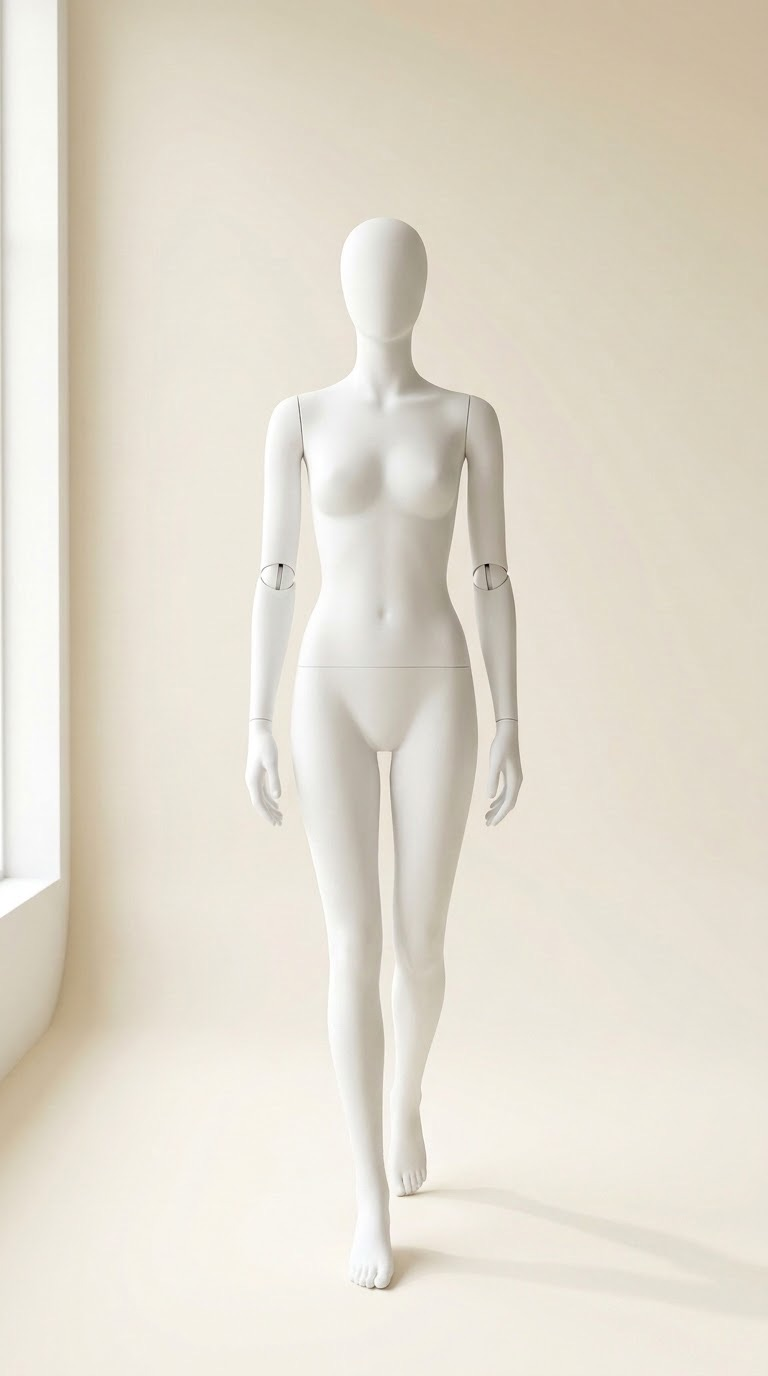
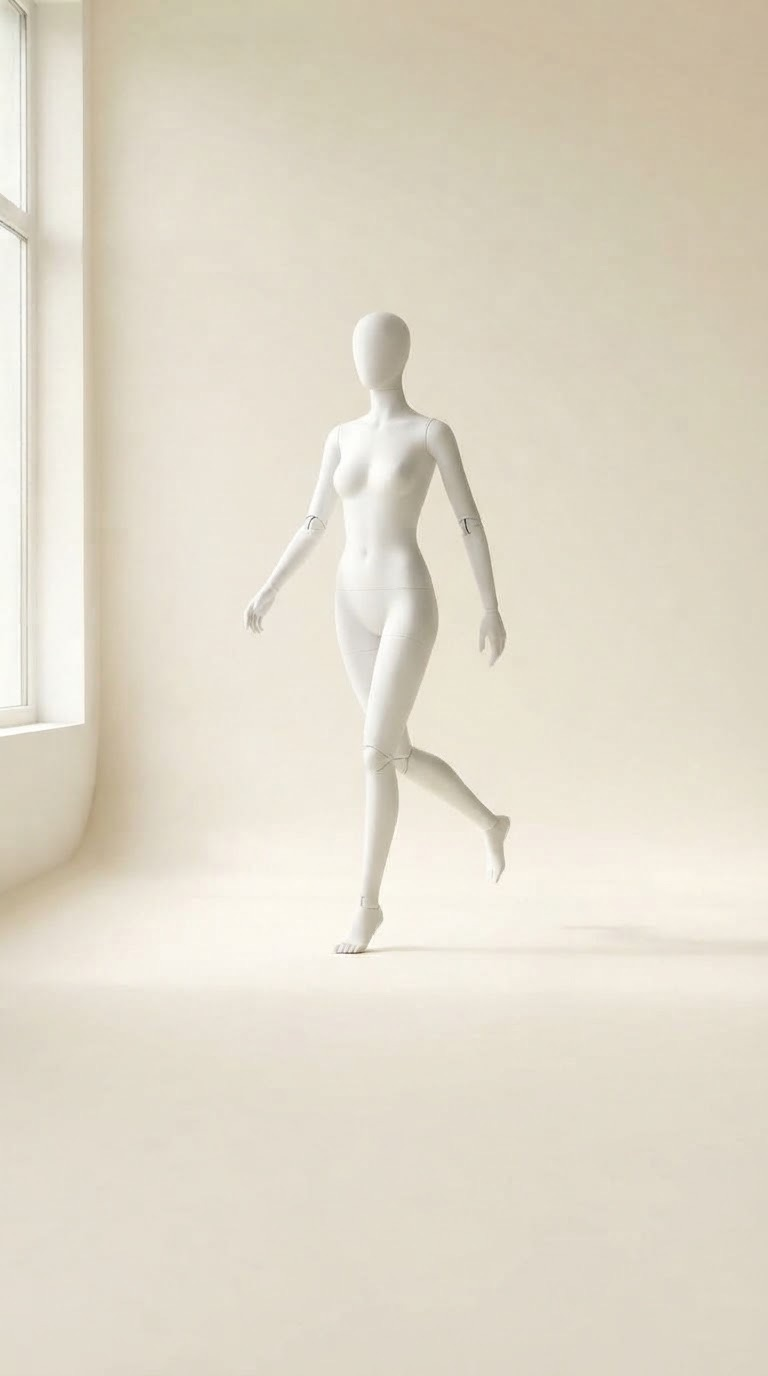
landing: legible walk-in — distant approach with true stride frames
The first walk set came back as eight near-identical standing poses, so
the prologue read as static. Regenerated in the client's Stitch project
with exaggerated pose direction: a far-away frame (figure ~55% of frame
height) plus alternating heel-strike / legs-passing strides. The scrub
now runs distant → left step → right step (cycled) → close heel-strike
→ series-1 stand, an unmistakable walk toward camera on scroll.
Unused walk-5..8 removed.

Changed region(s): [[0.125, 0.1562, 1.0, 1.0], [0.0, 0.0, 0.2188, 0.8438]]

diff --git a/apps/storefront/src/app/pages/landing.page.ts b/apps/storefront/src/app/pages/landing.page.ts
@@ -175,9 +175,11 @@ export class LandingPage implements OnInit, AfterViewInit, OnDestroy {
   readonly engineBroken = signal(false);
   /** Prologue: the mannequin walks in, scrubbed by scroll. */
   readonly baseImage = signal('series-1.jpg');
+  /** Approach: far away → alternating mid strides → close heel-strike;
+      the standing series-1 frame is the final "she stops" beat. */
   private readonly walkFrames = [
-    'walk-1.jpg', 'walk-2.jpg', 'walk-3.jpg', 'walk-4.jpg',
-    'walk-5.jpg', 'walk-6.jpg', 'walk-7.jpg', 'walk-8.jpg',
+    'walk-1.jpg', 'walk-2.jpg', 'walk-3.jpg',
+    'walk-2.jpg', 'walk-3.jpg', 'walk-4.jpg',
   ];
   private walkReady = false;
   /** Fraction of the scroll spent walking in (0 when frames unavailable). */
